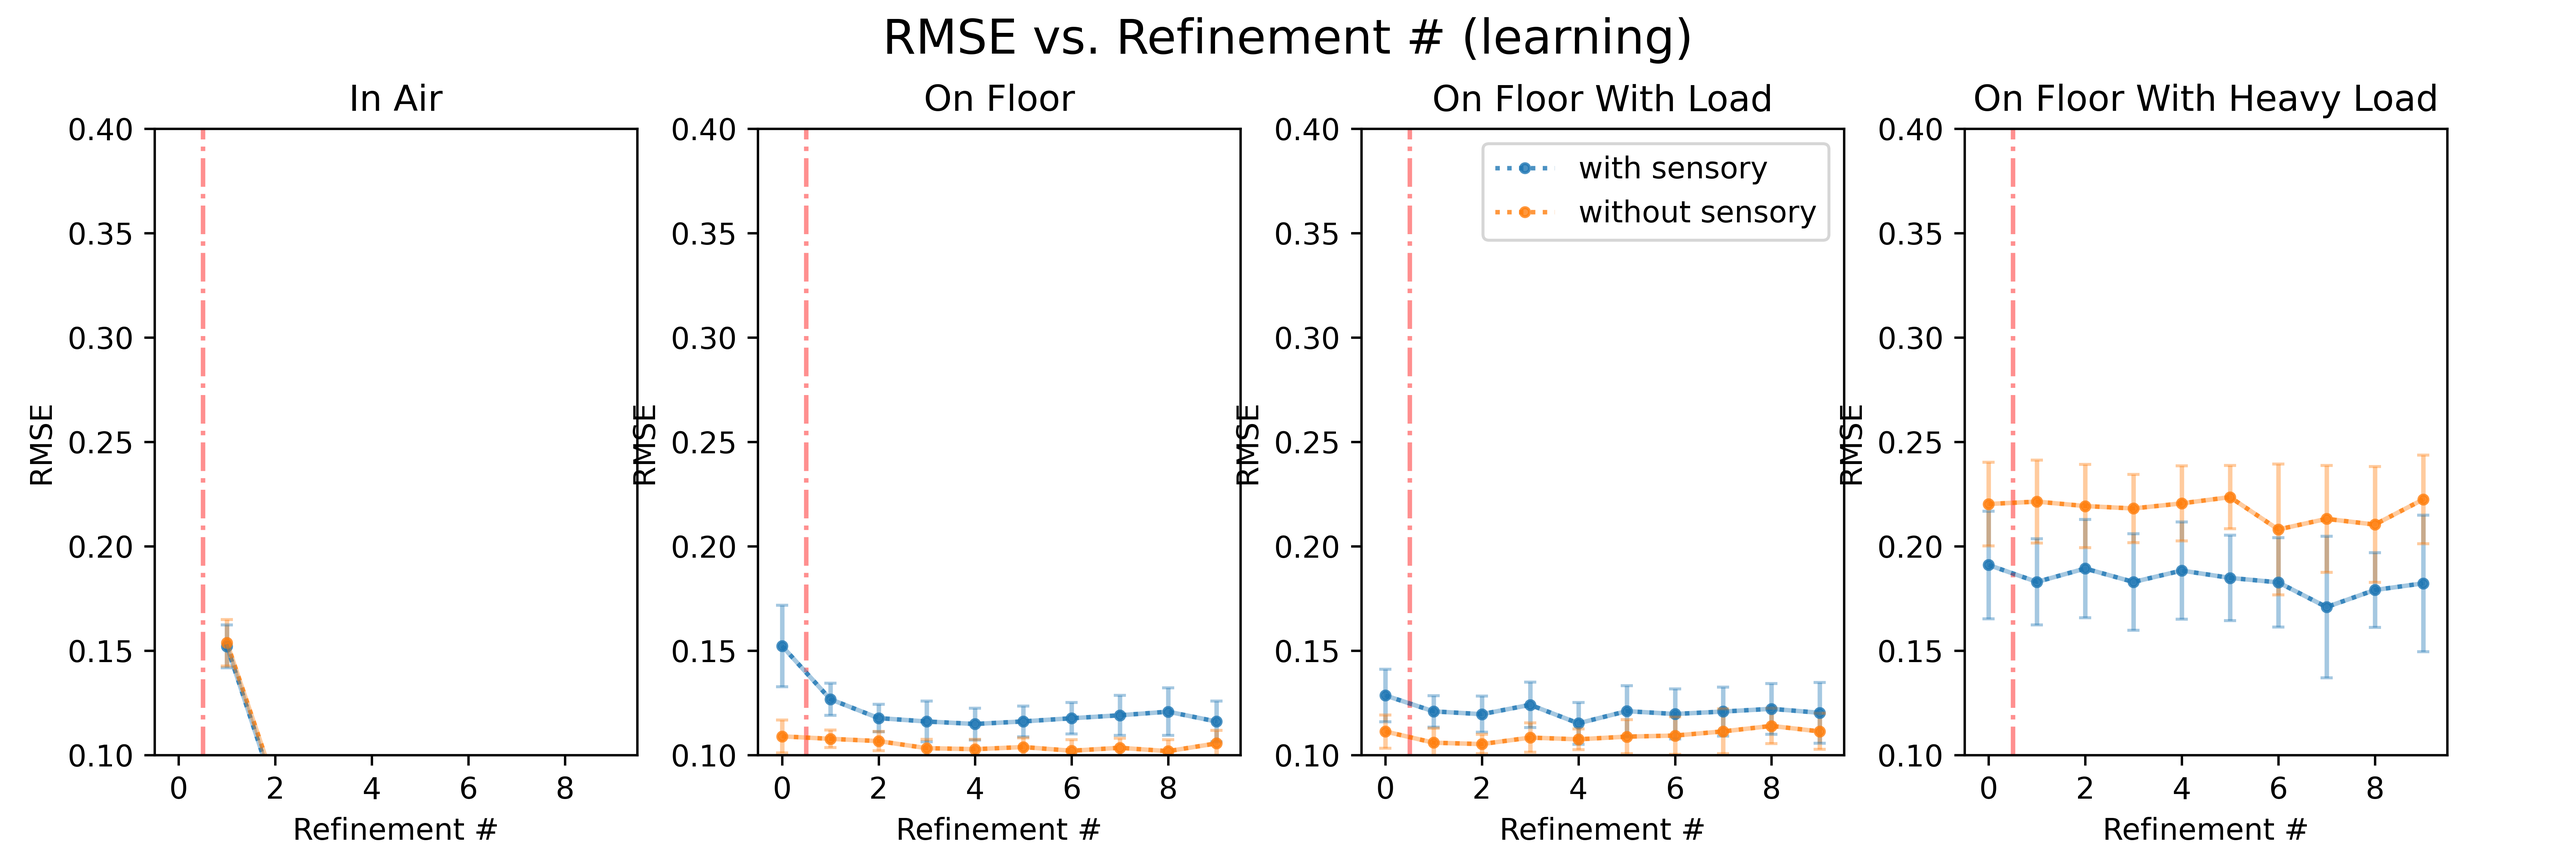
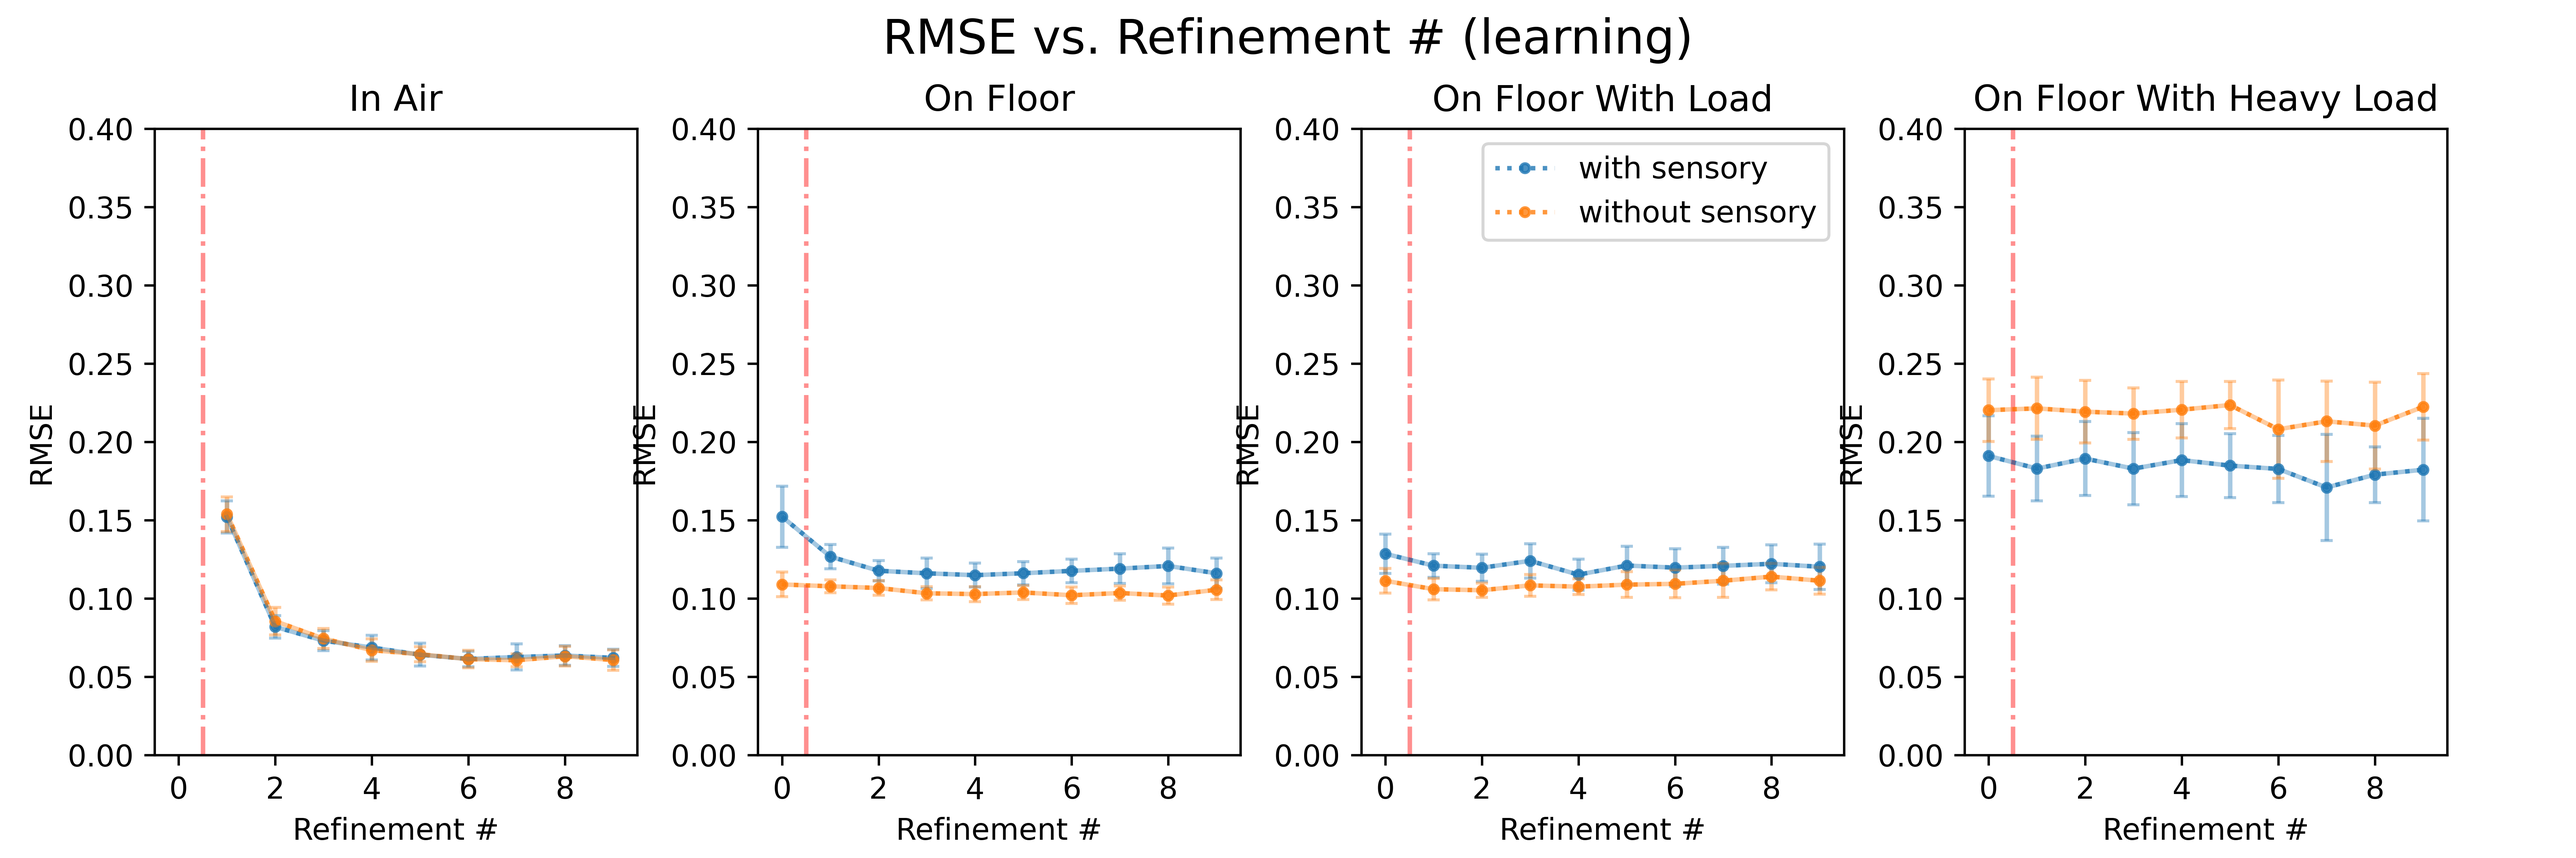
went over checking the results for the new rigid_4cases design

diff --git a/show_results_3phases_2tasks_cur_multiANN_par.py b/show_results_3phases_2tasks_cur_multiANN_par.py
@@ -14,10 +14,10 @@ use_acc = True
 normalize = True
 
 
-show_video = False
+show_video = True
 random_seed = 0
 
-task_type = task_types[0]
+task_type = task_types[1]
 curriculum = curriculums[0]
 ANN_structure = ANN_structures[0]
 number_of_refinements = 8+1
@@ -85,7 +85,7 @@ for use_sensory in all_sensory_cases:
 		axes1[ii].set_title(MuJoCo_model_names_short[ii])
 		axes1[ii].set_xlabel('Refinement #')
 		axes1[ii].set_ylabel('RMSE')
-		axes1[ii].set_ylim(0.1, 0.4)
+		axes1[ii].set_ylim(0, 0.4)
 		axes1[ii].set_xlim(-0.50, 9.5)
 		axes1[ii].grid(color='k', linestyle=':', linewidth=.5)
 
@@ -113,7 +113,7 @@ plt.setp(axes2.get_xticklabels(), rotation=-45, ha="left",
          rotation_mode="anchor")
 axes2.set_ylabel('RMSE')
 axes2.grid(color='k', linestyle=':', linewidth=.5)
-axes2.set_ylim(0.1, 0.4)
+axes2.set_ylim(0, 0.4)
 fig2.subplots_adjust(bottom=0.15, top=.92)
 axes1[2].legend((line1,line2),('with sensory','without sensory'))
 
@@ -130,10 +130,8 @@ plt.show(block=True)
 
 dt=.005
 use_sensory = True
-task_type = task_types[0]
-curriculum = curriculums[0]
-ANN_structure = ANN_structures[0]
 actuation_type = "TD"
+
 if use_sensory:
 	if use_feedback==True:
 		experiment_ID = "w_sensory_"+"w_feedback_"+ANN_structure+"_ANN_"+task_type+curriculum

diff --git a/main_3phases_2tasks_cur_multiANN_par.py b/main_3phases_2tasks_cur_multiANN_par.py
@@ -6,7 +6,7 @@ import multiprocessing as mp
 from all_functions import *
 
 def L2_learn_quadruped_experiment(run_no):
-	experiment_ID_base = 'cur3_V5_TD_full_test_nonstiff_modifiedRoM_rigid_4cases'
+	experiment_ID_base = 'cur3_V5_TD_full_test_nonstiff_modifiedRoM_rigid_4casesX'
 # Create target Directory if don't exist
 	dt=.005
 	if not os.path.exists('./results/'+experiment_ID_base):
